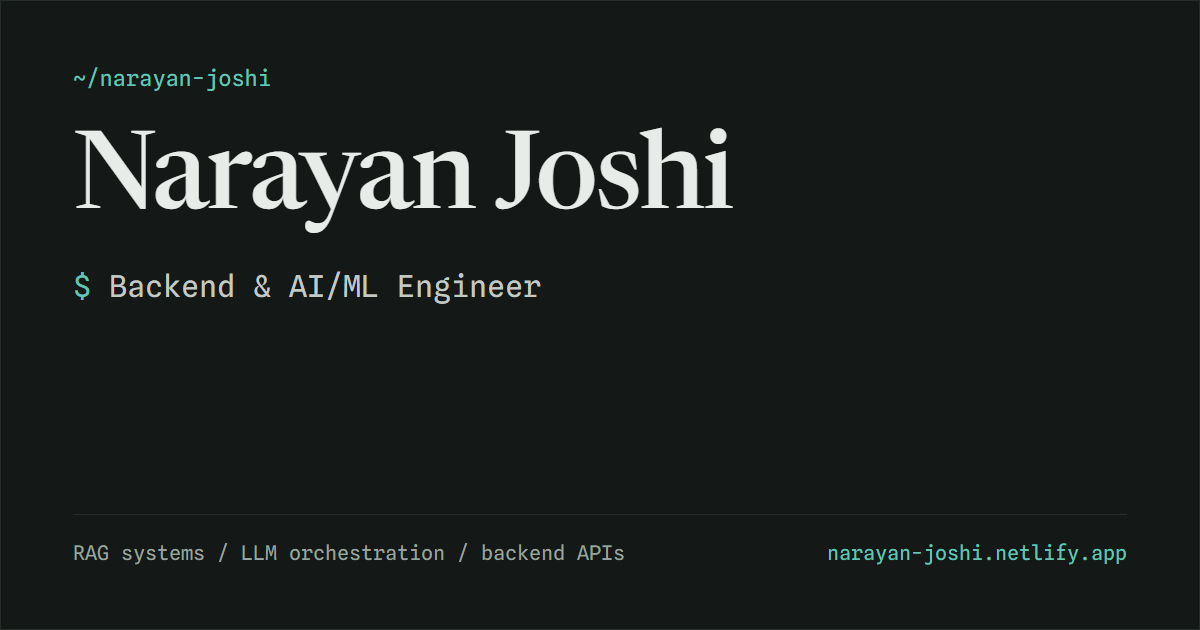
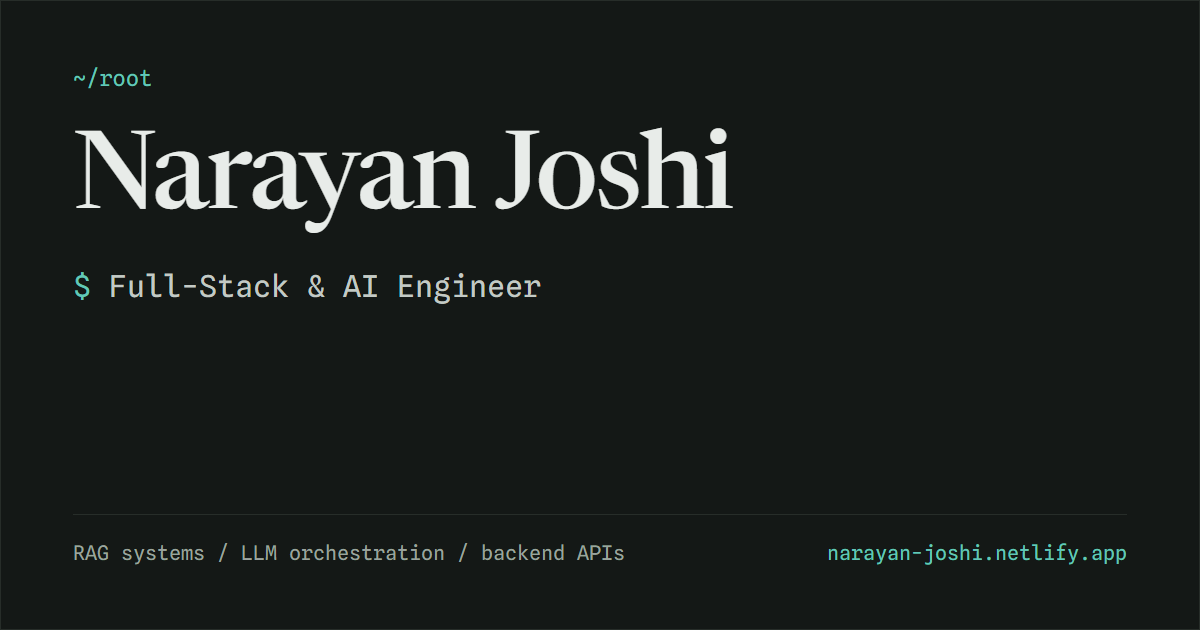
Reposition as Full-Stack & AI Engineer, root kicker, list target roles

Changed region(s): [[0.0925, 0.4222, 0.3083, 0.4825], [0.0617, 0.0905, 0.2158, 0.1508]]

diff --git a/index.html b/index.html
@@ -3,23 +3,23 @@
 <head>
   <meta charset="UTF-8">
   <meta name="viewport" content="width=device-width, initial-scale=1.0">
-  <title>Narayan Joshi — Backend Developer &amp; AI/ML Engineer</title>
-  <meta name="description" content="Portfolio of Narayan Joshi — backend developer and AI/ML engineer building RAG systems, LLM orchestration, and the APIs underneath them.">
+  <title>Narayan Joshi — Full-Stack &amp; AI Engineer</title>
+  <meta name="description" content="Portfolio of Narayan Joshi — full-stack and AI engineer building RAG systems, LLM orchestration, and the APIs underneath them.">
   <link rel="canonical" href="https://narayan-joshi.netlify.app/">
   <meta name="theme-color" media="(prefers-color-scheme: light)" content="#f7f3ea">
   <meta name="theme-color" media="(prefers-color-scheme: dark)" content="#141816">
 
   <meta property="og:type" content="website">
   <meta property="og:site_name" content="Narayan Joshi">
-  <meta property="og:title" content="Narayan Joshi — Backend Developer &amp; AI/ML Engineer">
+  <meta property="og:title" content="Narayan Joshi — Full-Stack &amp; AI Engineer">
   <meta property="og:description" content="RAG systems, LLM orchestration, and the backend infrastructure underneath them.">
   <meta property="og:url" content="https://narayan-joshi.netlify.app/">
   <meta property="og:image" content="https://narayan-joshi.netlify.app/og-image.png">
   <meta property="og:image:width" content="1200">
   <meta property="og:image:height" content="630">
-  <meta property="og:image:alt" content="Narayan Joshi — Backend Developer &amp; AI/ML Engineer">
+  <meta property="og:image:alt" content="Narayan Joshi — Full-Stack &amp; AI Engineer">
   <meta name="twitter:card" content="summary_large_image">
-  <meta name="twitter:title" content="Narayan Joshi — Backend Developer &amp; AI/ML Engineer">
+  <meta name="twitter:title" content="Narayan Joshi — Full-Stack &amp; AI Engineer">
   <meta name="twitter:description" content="RAG systems, LLM orchestration, and the backend infrastructure underneath them.">
   <meta name="twitter:image" content="https://narayan-joshi.netlify.app/og-image.png">
 
@@ -74,11 +74,11 @@
 <!-- HERO -->
 <section class="hero" id="top" aria-labelledby="hero-title">
   <div class="wrap">
-    <p class="kicker" aria-hidden="true">~/narayan-joshi</p>
+    <p class="kicker" aria-hidden="true">~/root</p>
     <h1 id="hero-title">Narayan Joshi</h1>
     <p class="role">
-      <span class="sr-only">Backend &amp; AI/ML Engineer</span>
-      <span aria-hidden="true"><span class="role-prompt">$</span> <span id="role-val">Backend &amp; AI/ML Engineer</span><span class="type-cursor" id="type-cursor">▌</span></span>
+      <span class="sr-only">Full-Stack &amp; AI Engineer</span>
+      <span aria-hidden="true"><span class="role-prompt">$</span> <span id="role-val">Full-Stack &amp; AI Engineer</span><span class="type-cursor" id="type-cursor">▌</span></span>
     </p>
     <p class="lede">
       I build the backend under AI products — RAG pipelines, LLM orchestration,
@@ -358,8 +358,8 @@
     <h2 id="contact-title">Contact</h2>
     <div class="prose reveal">
       <p>
-        I'm looking for backend and AI/ML roles. If you have a question, a project,
-        or an opening — my inbox is open.
+        I'm looking for Full-Stack, Backend, AI Engineer, and Gen AI roles.
+        If you have a question, a project, or an opening — my inbox is open.
       </p>
     </div>
     <p class="contact-email"><a href="mailto:joshi.narayan2004@gmail.com">joshi.narayan2004@gmail.com</a></p>

diff --git a/main.js b/main.js
@@ -100,7 +100,7 @@
   var roleEl = document.getElementById('role-val');
   if (roleEl && !reduceMotion.matches) {
     var roles = [
-      'Backend & AI/ML Engineer',
+      'Full-Stack & AI Engineer',
       'Backend Developer',
       'AI/ML Engineer',
       'RAG Engineer',
